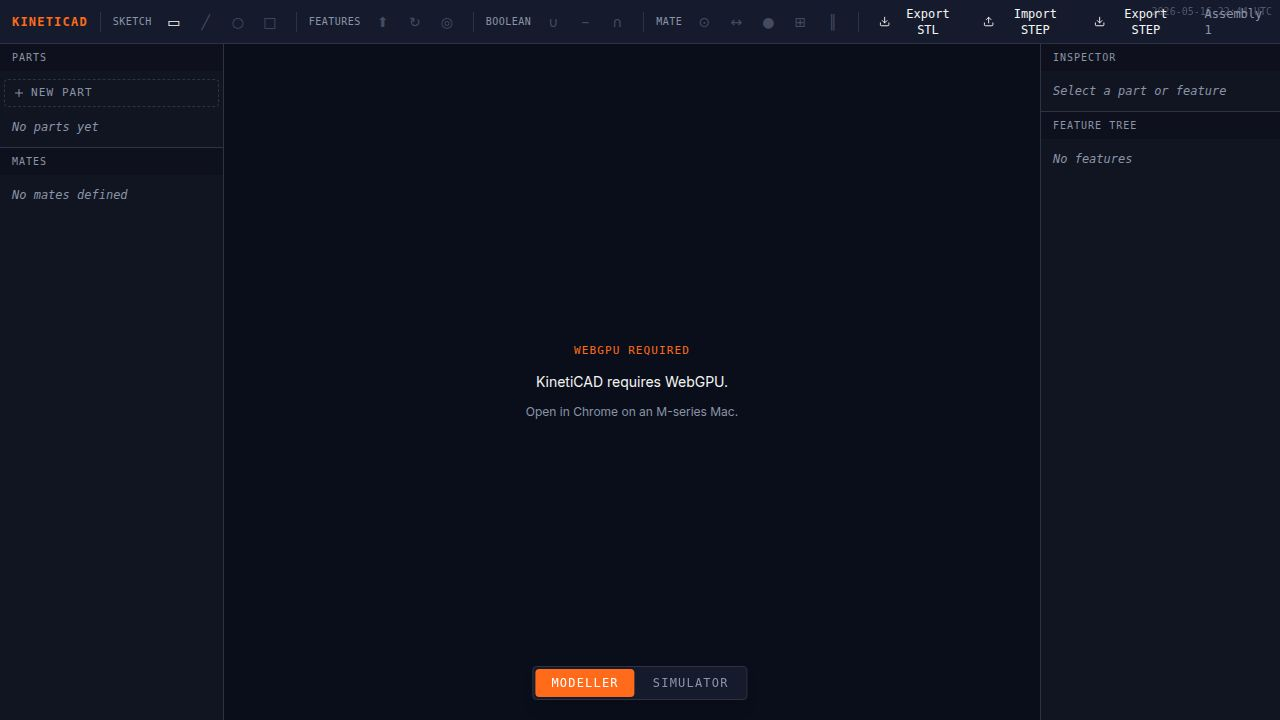
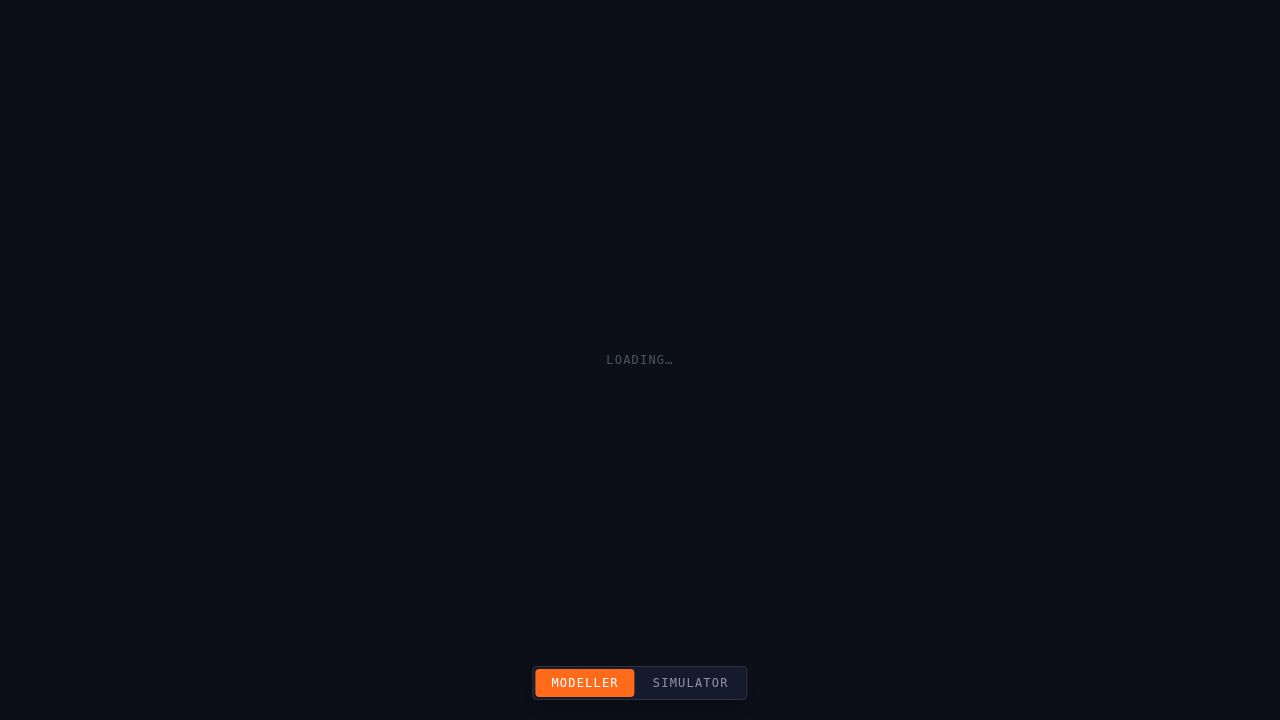
Fix window.loadSeed regression: inline seed registry into index.html
Root cause: after the app moved to /app, Vite dev serves public/ files
at the root path (/seed-registry.js), not at the base-prefixed path
(/app/seed-registry.js). The previous fix of using %BASE_URL%seed-registry.js
in a <script src> made the browser request /app/seed-registry.js, which
Vite dev 404d. window.loadSeed was therefore never defined.

Fix: inline the seed registry IIFE directly into index.html as a single
<script data-base="%BASE_URL%"> block. No file fetch → no public-path
problem in dev or production.

Base path derivation: the script reads document.currentScript.dataset.base
(populated from the data-base="%BASE_URL%" HTML attribute). Vite's
attribute substitution is reliable in both dev and production. The value
is captured synchronously into a local `base` variable at the top of the
IIFE before any async code, so the fetch() call uses the correct path.
Falls back to '/' if document.currentScript is unexpectedly null.

Files changed:
- artifacts/kineticad/index.html — remove the two old seed script tags
  (the __seedBase injection + the <script src="%BASE_URL%seed-registry.js">),
  replace with one inline <script data-base="%BASE_URL%"> block containing
  the full IIFE
- artifacts/kineticad/public/seed-registry.js — prepend REFERENCE COPY
  header explaining it is no longer loaded; update persist version comment
  (8 → 9); point "how to add a seed" step 3 at index.html instead
- replit.md — rewrite "Seed registry" section with inlining rationale and
[…]

diff --git a/artifacts/kineticad/index.html b/artifacts/kineticad/index.html
@@ -14,8 +14,57 @@
   </head>
   <body>
     <div id="root"></div>
-    <script>window.__seedBase = '%BASE_URL%';</script>
-    <script src="%BASE_URL%seed-registry.js"></script>
+    <!--
+      Seed registry — inlined so it is never fetched as a separate file.
+      Base path is read from the data-base attribute (set via Vite's reliable
+      %BASE_URL% attribute substitution) into a local variable at the top of
+      the IIFE, before any async code runs, so the fetch URL is correct in
+      both dev (/app/seeds/…) and the production build.
+      public/seed-registry.js is kept as a reference/comment copy only.
+    -->
+    <script data-base="%BASE_URL%">
+      (function () {
+        var base = (document.currentScript && document.currentScript.dataset.base) || '/';
+        window.__seedBase = base;
+
+        var SEEDS = [
+          {
+            id: 'windmill',
+            name: 'Windmill',
+            description: 'Two-body revolute joint with 30 RPM motor. Used as physics canary.',
+          },
+          {
+            id: 'orrery',
+            name: 'Orrery',
+            description: 'Nested planetary model: sun, 8 planets, 3 moons, asteroid ring. 13 bodies, 12 revolute joints.',
+          },
+        ];
+
+        window.loadSeed = function (id) {
+          var entry = SEEDS.find(function (s) { return s.id === id; });
+          if (!entry) {
+            var available = SEEDS.map(function (s) { return s.id; });
+            console.error('[seed-registry] Unknown id: "' + id + '". Available:', available);
+            return;
+          }
+          fetch(base + 'seeds/' + id + '.js')
+            .then(function (r) {
+              if (!r.ok) throw new Error('HTTP ' + r.status);
+              return r.text();
+            })
+            // eslint-disable-next-line no-eval
+            .then(function (code) { eval(code); })
+            .catch(function (err) {
+              console.error('[seed-registry] Failed to load seed "' + id + '":', err);
+            });
+        };
+
+        console.log(
+          '[seed-registry] window.loadSeed ready. Seeds:',
+          SEEDS.map(function (s) { return s.id; })
+        );
+      })();
+    </script>
     <script type="module" src="/src/main.tsx"></script>
   </body>
 </html>

diff --git a/artifacts/kineticad/public/seed-registry.js b/artifacts/kineticad/public/seed-registry.js
@@ -1,4 +1,19 @@
 /*
+ * REFERENCE COPY — NOT LOADED BY index.html
+ * -------------------------------------------------
+ * This file is kept as a readable reference only. The seed registry is now
+ * inlined directly into index.html as a <script data-base="%BASE_URL%"> block.
+ *
+ * Reason for inlining: when the app is served at a non-root base path (/app),
+ * Vite dev does not serve public/ files at the base-prefixed URL
+ * (/app/seed-registry.js). A <script src="%BASE_URL%seed-registry.js"> tag
+ * caused a 404 in dev because %BASE_URL% substitution made the browser request
+ * /app/seed-registry.js, but Vite dev only served the file at /seed-registry.js.
+ * Inlining removes the fetch entirely. The base path is derived at runtime from
+ * document.currentScript.dataset.base (populated via the data-base="%BASE_URL%"
+ * HTML attribute, where Vite's attribute substitution is reliable in both dev
+ * and production).
+ *
  * How to add a seed
  * -----------------
  * 1. Create public/seeds/<id>.js as a self-contained IIFE with this shape:
@@ -11,17 +26,17 @@
  *      })();
  *
  * 2. The version: N value MUST match the current Zustand persist version in
- *    src/state/store.ts (currently 8). If the number is wrong the seed will
+ *    src/state/store.ts (currently 9). If the number is wrong the seed will
  *    load as stale data and trigger the migration chain, producing unexpected
  *    state. Always check store.ts before writing a new seed.
  *
- * 3. Add one { id, name, description } entry to the SEEDS array below.
- *    That is the only change needed in this file.
+ * 3. Add one { id, name, description } entry to the SEEDS array in the
+ *    inlined block inside artifacts/kineticad/index.html. That is the only
+ *    change needed alongside the new seed file.
  */
 
 // Seed registry for KinetiCAD test fixtures and demo scenes.
 // window.loadSeed(id) is available in the browser console once the app loads.
-// Added 16/05/2026.
 (function () {
   var SEEDS = [
     {
@@ -37,6 +52,8 @@
     // Add future seeds here: { id, name, description }
   ];
 
+  var base = (window.__seedBase || '/');
+
   window.loadSeed = function (id) {
     var entry = SEEDS.find(function (s) { return s.id === id; });
     if (!entry) {
@@ -44,7 +61,7 @@
       console.error('[seed-registry] Unknown id: "' + id + '". Available:', available);
       return;
     }
-    fetch((window.__seedBase || '/') + 'seeds/' + id + '.js')
+    fetch(base + 'seeds/' + id + '.js')
       .then(function (r) {
         if (!r.ok) throw new Error('HTTP ' + r.status);
         return r.text();

diff --git a/replit.md b/replit.md
@@ -923,15 +923,29 @@ never reaches the worker.
 
 ### Seed registry ✅
 
-`public/seed-registry.js` — plain-JS IIFE defining `window.loadSeed(id)`
-at page load. Loads `public/seeds/<id>.js` dynamically; the IIFE in
-each seed file writes the persist JSON to `localStorage["kineticad-state"]`
-and calls `location.reload()`. `public/seeds/windmill.js` is now the
-canonical windmill seed (former `seed-windmill.js` replaced with a
-3-line backward-compat shim). `index.html` loads `seed-registry.js`
-before `main.tsx`. How to add a seed: create `seeds/<id>.js` IIFE,
-match `version: N` to the current store persist version (currently 8),
-add one `SEEDS` array entry.
+The seed registry IIFE (`window.loadSeed(id)`) is **inlined directly into
+`index.html`** as a `<script data-base="%BASE_URL%">` block. It is no longer
+fetched as a separate file. `public/seed-registry.js` remains in the repo as
+a readable reference copy only — it is not loaded.
+
+**Why inlined:** when the app is at a non-root base path (`/app`), Vite dev
+does not serve `public/` files at the base-prefixed URL. A
+`<script src="%BASE_URL%seed-registry.js">` tag caused a 404 because Vite dev
+served the file at `/seed-registry.js` but `%BASE_URL%` substitution made the
+browser request `/app/seed-registry.js`.
+
+**Base path derivation:** the inline script reads
+`document.currentScript.dataset.base` (the `data-base` attribute set to
+`"%BASE_URL%"` on the script element). Vite's HTML-attribute substitution is
+reliable for both dev and production; inline-script-text substitution is not.
+`document.currentScript` is captured synchronously into a local `base` variable
+at the top of the IIFE so the async `fetch()` call uses the correct value.
+
+Loads `public/seeds/<id>.js` dynamically; each seed IIFE writes the persist
+JSON to `localStorage["kineticad-state"]` and calls `location.reload()`.
+How to add a seed: create `seeds/<id>.js` IIFE, match `version: N` to the
+current store persist version (currently 9), add one `SEEDS` array entry
+**in the inlined block inside `index.html`** (not in `public/seed-registry.js`).
 
 ### Orrery — full build ✅
 
@@ -1141,12 +1155,20 @@ wouter to apply it twice → `/app/app/simulator`. Fixed by removing the manual
 `base +` prefix; `const base` line deleted entirely.
 
 **Seed paths:** Seeds live in `public/seeds/<id>.js` and are fetched via
-`(window.__seedBase || '/') + 'seeds/' + id + '.js'`. `window.__seedBase` is
-injected by `index.html` as `'%BASE_URL%'` (Vite replaces this at build time
-with the real base path, e.g. `/app/`). `generate-orrery-seed.ts` writes to
+`base + 'seeds/' + id + '.js'` where `base` comes from
+`document.currentScript.dataset.base` (the `data-base="%BASE_URL%"` attribute
+on the inlined script tag in `index.html`). This works in both dev (`/app/`) and
+the production build. `generate-orrery-seed.ts` writes to
 `artifacts/kineticad/public/seeds/orrery.js` — matches the registry path.
 `public/seed-windmill.js` is a backwards-compat shim; the canonical windmill
 seed is `public/seeds/windmill.js`.
+
+**Seed registry inlining (17/05/2026):** the `window.loadSeed` IIFE was moved
+from `public/seed-registry.js` (fetched via `<script src>`) into a single inline
+`<script data-base="%BASE_URL%">` block in `index.html`. Root cause of the
+regression: Vite dev serves public files at the root path, not at the base-prefixed
+path, so `<script src="%BASE_URL%seed-registry.js">` produced a 404 at `/app`
+even though the attribute substitution gave `/app/seed-registry.js`.
 
 ---
 